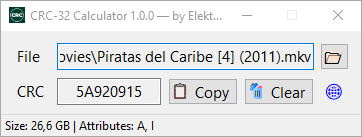
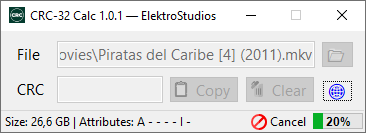
Added screenshots

diff --git a/README.md b/README.md
@@ -47,7 +47,9 @@ winforms
 
 ## 🖼️ Screenshots
 
-![screenshot](/Images/screenshot1.png)
+![screenshot1](/Images/screenshot1.png)
+
+![screensho2](/Images/screenshot2.png)
 
 ## 📝 Requirements
 